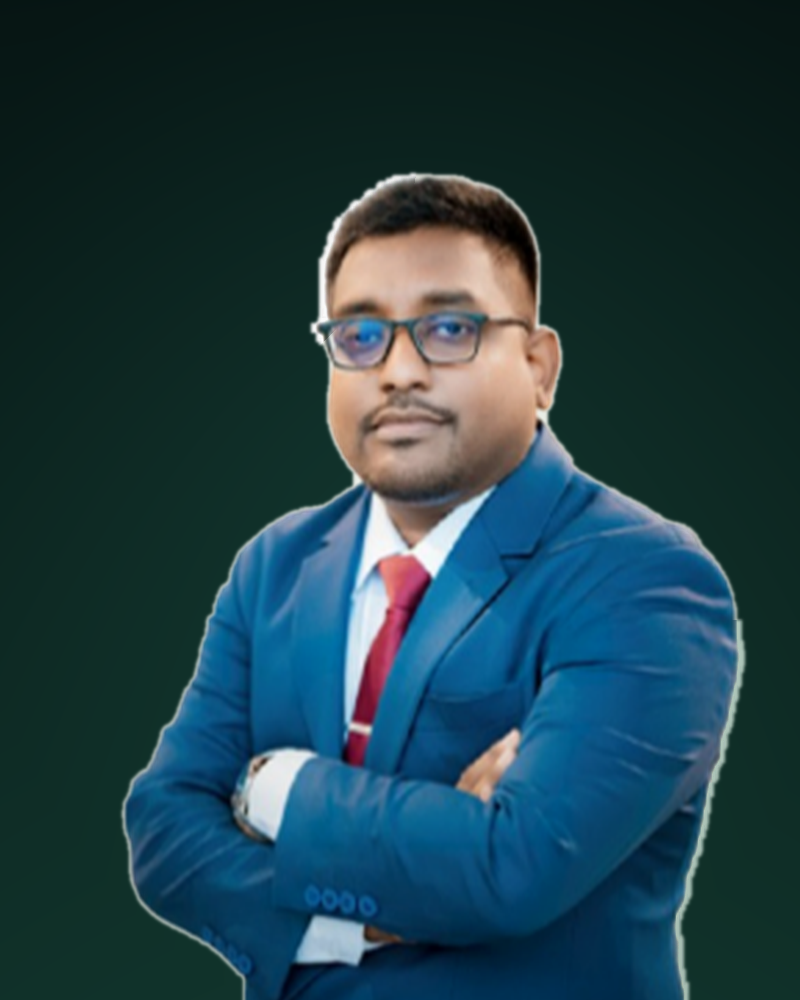
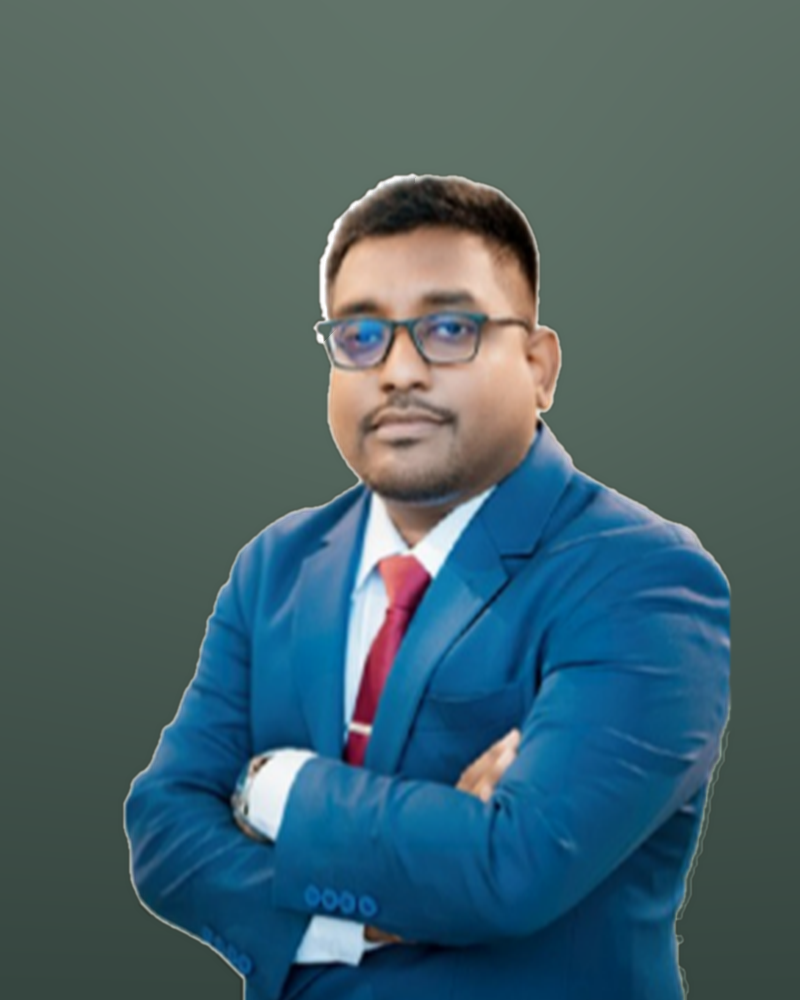
Add files via upload

diff --git a/index.html b/index.html
@@ -36,7 +36,6 @@
       <p class="hero-intro">Building compliant, market-ready products through quality systems, laboratory testing, research, product development and cross-functional collaboration.</p>
       <div class="hero-buttons">
         <a class="button button-dark" href="#contact">Let's Connect <b>↗</b></a>
-        <a class="button button-outline" href="cv.pdf" download>Download CV <b>↓</b></a>
       </div>
       <div class="hero-metrics">
         <div><strong>7+</strong><span>Years Experience</span></div>

diff --git a/README.md b/README.md
@@ -1,7 +1,13 @@
-# Shabuz Chandra Mondol Portfolio
+# Shabuz Chandra Mondol — GitHub Portfolio
 
-Ready-to-upload GitHub Pages website.
+## Upload instructions
+1. Extract this ZIP.
+2. Upload all files directly to the root of your GitHub Pages repository.
+3. Replace the existing files and commit the changes.
+4. Wait for GitHub Pages to deploy.
 
-Upload every file in this folder directly to the root of the repository `shabuzchandramondol.github.io`.
-
-The company logos are local PNG files. The profile image has a darker professional background, the decorative profile label/orbit elements are removed, and the featured work image is contained so it does not cover nearby text.
+## Notes
+- The CV file and Download CV button have been removed.
+- The company logos are local PNG files in the repository root.
+- The profile image uses a comfortable muted sage/slate background that matches the portfolio's green and cream design.
+- Keep `google9580c0051b33f26a.html` in the repository root if it is being used for Google Search Console verification.
